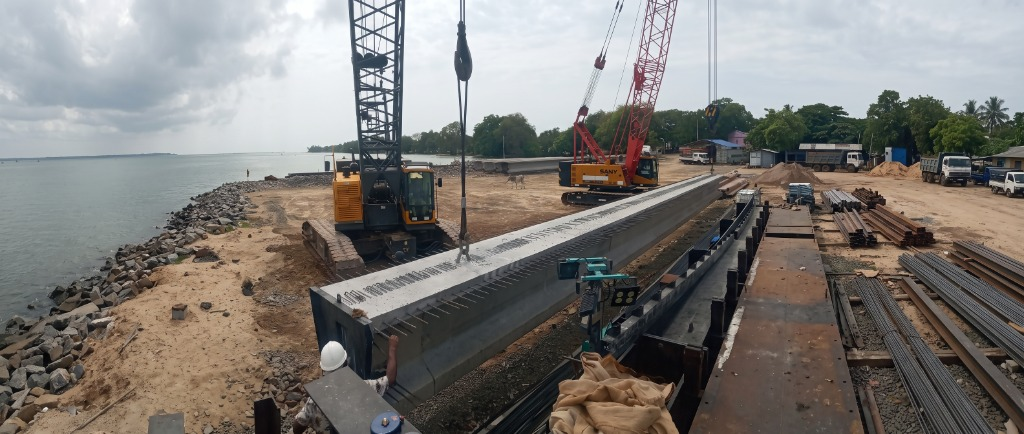
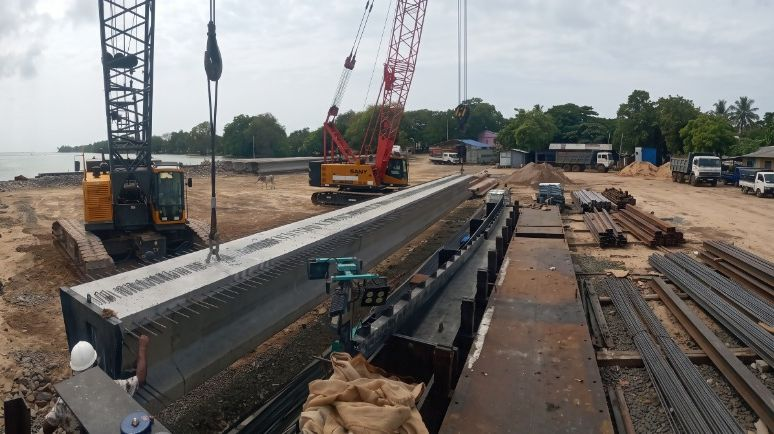
design: physically crop overview and key data panoramas and remove css offset hack

diff --git a/src/app/about/key-data/page.tsx b/src/app/about/key-data/page.tsx
@@ -31,7 +31,7 @@ export default function KeyDataPage() {
   return (
     <main style={{ backgroundColor: "var(--white)", minHeight: "100vh" }}>
       {/* Hero Section */}
-      <section className="page-header overview-hero-bg" style={{ backgroundImage: "url('/images/about/key-data-hero.jpg')" }}>
+      <section className="page-header" style={{ backgroundImage: "url('/images/about/key-data-hero.jpg')" }}>
         <div className="container" style={{ position: "relative", zIndex: 2 }}>
           <AutoBreadcrumb />
           <h1 style={{ color: "white", fontFamily: "var(--font-heading)", fontSize: "clamp(1.8rem, 6vw, 4.2rem)", margin: 0, fontWeight: 800, textShadow: "0 4px 20px rgba(0,0,0,0.85)", textAlign: "left" }}>

diff --git a/src/app/globals.css b/src/app/globals.css
@@ -2851,16 +2851,6 @@ h1, h2, h3, h4, h5, h6 {
 }
 
 
-/* Special offset for company overview panorama */
-.overview-hero-bg {
-    background-size: auto 100% !important;
-    background-position: calc(max(58vw, 750px) - 40px) center !important;
-    background-repeat: no-repeat !important;
-}
-@media (max-width: 768px) {
-    .overview-hero-bg {
-        background-size: cover !important;
-        background-position: center !important;
-    }
-}
+
+
 

diff --git a/src/app/about/company-overview/page.tsx b/src/app/about/company-overview/page.tsx
@@ -22,7 +22,7 @@ export default function AboutStory() {
       
       {/* Hero Section */}
       <section 
-          className="page-header overview-hero-bg" 
+          className="page-header" 
           style={{ 
             backgroundImage: "url('/images/about/overview-image.jpg')", 
             backgroundColor: "#1b2738",  
